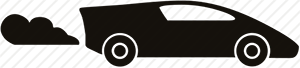
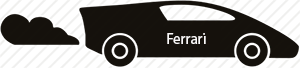
Added car maker

Changed region(s): [[0.54, 0.4706, 0.69, 0.6471]]

diff --git a/racecar.js b/racecar.js
@@ -7,13 +7,13 @@ $(document).ready(function(){
           PLAYER ANIMATION
 =======================================*/
 
-  var functionOne = $('html').keypress(function (e) {
-    if (e.keyCode == 97) {
+  var functionOne = $('html').keyup(function (e) {
+    if (e.keyCode == 70) {
       $(".playerOne").animate({ "left": "+=20px" }, 0 );}
   });
 
-  $('html').keypress(function (e) {
-    if (e.keyCode == 108) {
+  $('html').keyup(function (e) {
+    if (e.keyCode == 76) {
       $(".playerTwo").animate({ "left": "+=20px" }, 0 );}
   });
 
@@ -21,9 +21,9 @@ $(document).ready(function(){
                 WINNER
 =======================================*/
 
-  $('html').keypress( function(event) {     
+  $('html').keyup( function(event) {     
     var keycode = (event.keyCode ? event.keyCode : event.which);
-      if(keycode == '97'){
+      if(keycode == '70'){
         $('#html').html(playerOneWin++);  
       }
       if (playerOneWin === 64) {
@@ -31,9 +31,9 @@ $(document).ready(function(){
       }
    });
 
-  $('html').keypress( function(event) {     
+  $('html').keyup( function(event) {     
     var keycode = (event.keyCode ? event.keyCode : event.which);
-      if(keycode == '108'){
+      if(keycode == '76'){
         $('#html').html(playerTwoWin++);  
       }
       if (playerTwoWin === 64) {

diff --git a/main.css b/main.css
@@ -48,6 +48,12 @@ center {
     border: solid 1px black;
 }
 
+p {
+  float: right;
+  display: inline-block;
+  font-weight: bold;
+}
+
 /*.start {
   float: right;
   display: inline-block;

diff --git a/index.html b/index.html
@@ -15,6 +15,7 @@
   </div>
   <div>
     <input class ="button" type='button' id='reset' value='NEW GAME'</>
+    <p> [L] - Lamborghini<br> [F] - Ferrari </p>
   </div>
 </body>
 </html>
